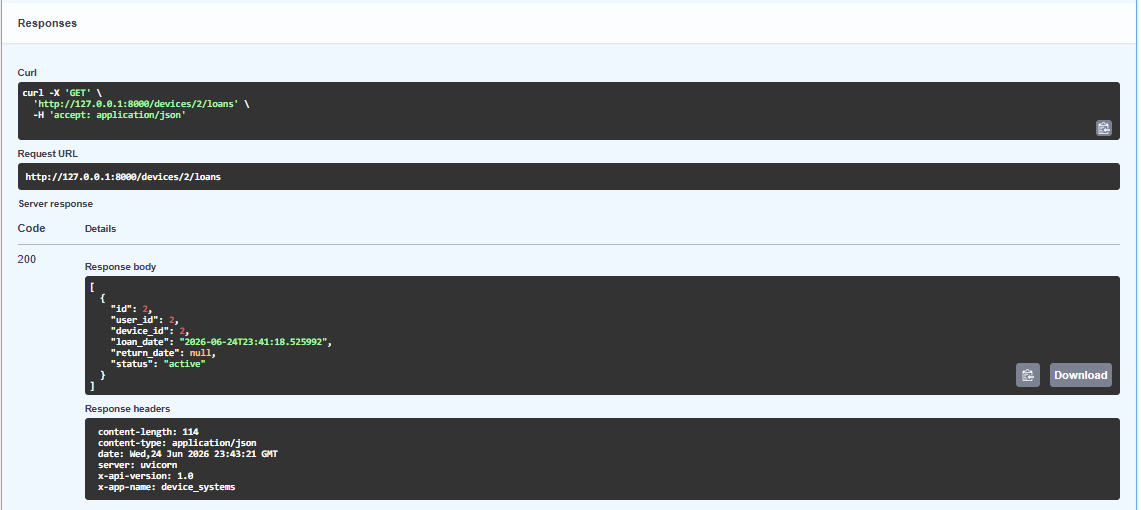
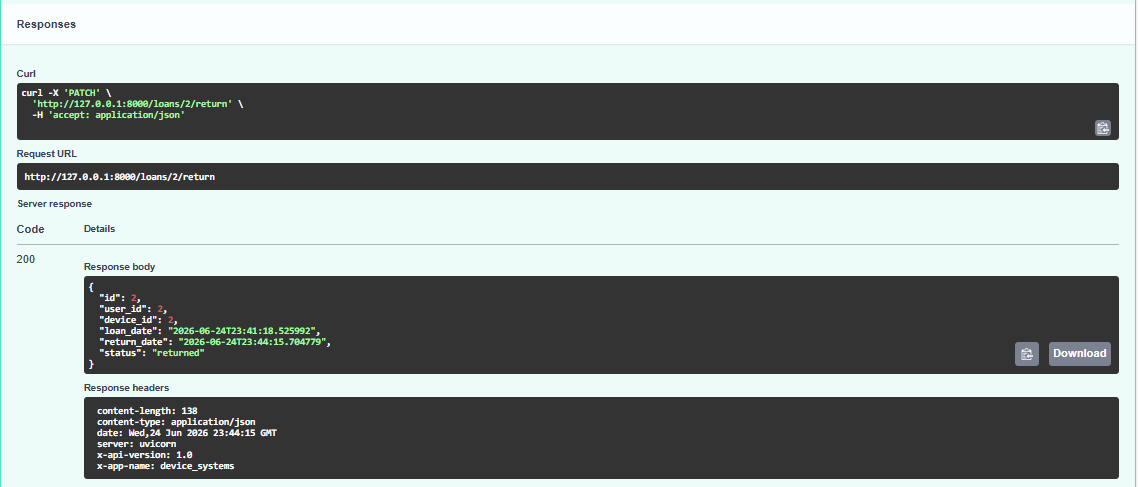
readme final

Changed region(s): [[0.0, 0.0, 1.0, 1.0], [0.0, 0.0308, 0.0615, 0.0924]]

diff --git a/README.md b/README.md
@@ -113,3 +113,132 @@ Usando los endpoints enviando datos erroneos podemos probar las validaciones
 ## Diferencia entre modelo sqlalchemy y schema pydantic
 
 El modelo SQLAlchemy (ORM) define la estructura de las tablas, relaciones y tipos de datos directamente en la base de datos. El esquema Pydantic (DTO) se encarga de la validación, serialización y documentación de los datos que entran y salen de la API (solicitudes/respuestas).
+
+
+# Evolucion del proyecto: Usuarios, Dispositivos y Prestamos
+
+El proyecto sigue creciendo, ahora se agregan los modelos de Dispositivo y Prestamo, junto con sus endpoints y relaciones. Para manejar los cambios en la base de datos se integra Alembic como herramienta de migraciones.
+
+## Inicializacion de Alembic
+
+Alembic se inicializa con alembic init para generar la carpeta de migraciones y el archivo alembic.ini con la configuracion base.
+
+
+## Creacion de migracion
+
+Con alembic revision --autogenerate Alembic detecta los cambios en los modelos y genera automaticamente el script de migracion correspondiente.
+
+![alembic revision](img/alembic_autogenerate_captura.PNG)
+
+## Aplicacion de migracion
+
+Con alembic upgrade head se aplican los cambios pendientes a la base de datos.
+
+![alembic upgrade head](img/alembic_upgrade_head_captura.PNG)
+
+## Estructura de tablas generadas
+
+Las tres tablas quedan creadas con sus columnas y relaciones correctamente reflejadas en la base de datos.
+
+![estructura de tablas](img/tablas_alembic.PNG)
+
+## Swagger UI
+
+Se puede visualizar la totalidad de los endpoints disponibles directamente desde la interfaz de Swagger.
+
+
+## Evidencia de creacion de registros
+
+Se crea un dispositivo y un prestamo para verificar que los modelos funcionan correctamente y se relacionan entre si.
+
+![creacion de dispositivo](img/peticiondevice.PNG)
+
+![creacion de prestamo](img/peticionloan.PNG)
+
+## Consultas con joins
+
+Los endpoints de prestamos devuelven informacion combinada de las tablas relacionadas usando joins, evitando tener que hacer multiples peticiones.
+
+![consulta con join](img/peticionloan2.PNG)
+
+
+## Devolucion de dispositivo
+
+Al registrar la devolucion de un dispositivo, el prestamo se actualiza y el dispositivo vuelve a estar disponible.
+
+![devolucion](img/peticionloan3.PNG)
+
+## Reflexion
+
+Las migraciones con Alembic permiten evolucionar el esquema de la base de datos de forma controlada sin perder datos ni tener que recrear tablas manualmente. Las relaciones entre modelos y las consultas con joins son fundamentales para construir APIs que devuelvan informacion util y coherente sin multiplicar innecesariamente las peticiones al servidor.
+
+
+# Evolucion del proyecto: Autenticacion y Seguridad
+
+En esta fase se agrega autenticacion con JWT, control de acceso por roles, middleware de cabeceras, rate limiting con slowapi y configuracion de CORS.
+
+## Estructura del proyecto
+
+La estructura del proyecto se reorganiza para separar las responsabilidades de autenticacion del resto de los modulos.
+
+![estructura del proyecto](img/auth1.png)
+
+## Migracion Alembic aplicada
+
+Se genera y aplica una nueva migracion para agregar los campos necesarios al modelo de usuario para soportar autenticacion.
+
+
+## Registro de usuario
+
+El endpoint POST /auth/register permite crear un usuario nuevo. La contrasena se almacena hasheada, nunca en texto plano.
+
+![registro de usuario](img/auth2.png)
+
+## Login y token generado
+
+El endpoint POST /auth/login valida las credenciales y devuelve un token JWT que se debe usar en las siguientes peticiones.
+
+![login y token](img/auth3.png)
+
+## Endpoint /auth/me
+
+Con el token valido en la cabecera Authorization, el endpoint GET /auth/me devuelve la informacion del usuario autenticado.
+
+![auth me](img/auth4.png)
+
+## Acceso sin token
+
+Intentar acceder a un endpoint protegido sin token devuelve un error 401 Unauthorized.
+
+![acceso sin token](img/auth5.png)
+
+## Acceso con rol no permitido
+
+Si el usuario autenticado no tiene el rol requerido para un endpoint, la API devuelve un error 403 Forbidden.
+
+![rol no permitido](img/auth6.png)
+
+## Swagger con OAuth2
+
+Swagger UI muestra el boton de autorizacion para ingresar el token JWT y probar los endpoints protegidos directamente desde la interfaz.
+
+![swagger oauth2](img/auth7.png)
+
+## Cabeceras del middleware
+
+El middleware agrega cabeceras personalizadas a cada respuesta. Esto se puede verificar en la seccion de headers de cualquier peticion.
+
+
+## Rate limiting
+
+slowapi limita la cantidad de peticiones que un cliente puede hacer en un periodo de tiempo. Al superar el limite la API devuelve un error 429 Too Many Requests.
+
+
+## CORS configurado
+
+CORS se configura en FastAPI usando CORSMiddleware, definiendo los origenes permitidos, los metodos HTTP aceptados y si se permiten credenciales. En este proyecto se configuro para aceptar peticiones desde cualquier origen durante el desarrollo, lo cual deberia restringirse a dominios especificos en un entorno de produccion.
+
+## Reflexion final
+
+La seguridad en una API REST no es opcional ni se agrega al final. JWT permite autenticar usuarios sin guardar estado en el servidor. El control de roles evita que usuarios accedan a recursos para los que no tienen permiso. El middleware y el rate limiting protegen la API de abusos y exponen informacion util por cabeceras. CORS controla que origenes pueden consumir la API desde el navegador. Cada una de estas capas tiene una responsabilidad distinta y todas son necesarias para que una API sea minimamente robusta en un entorno real.
+